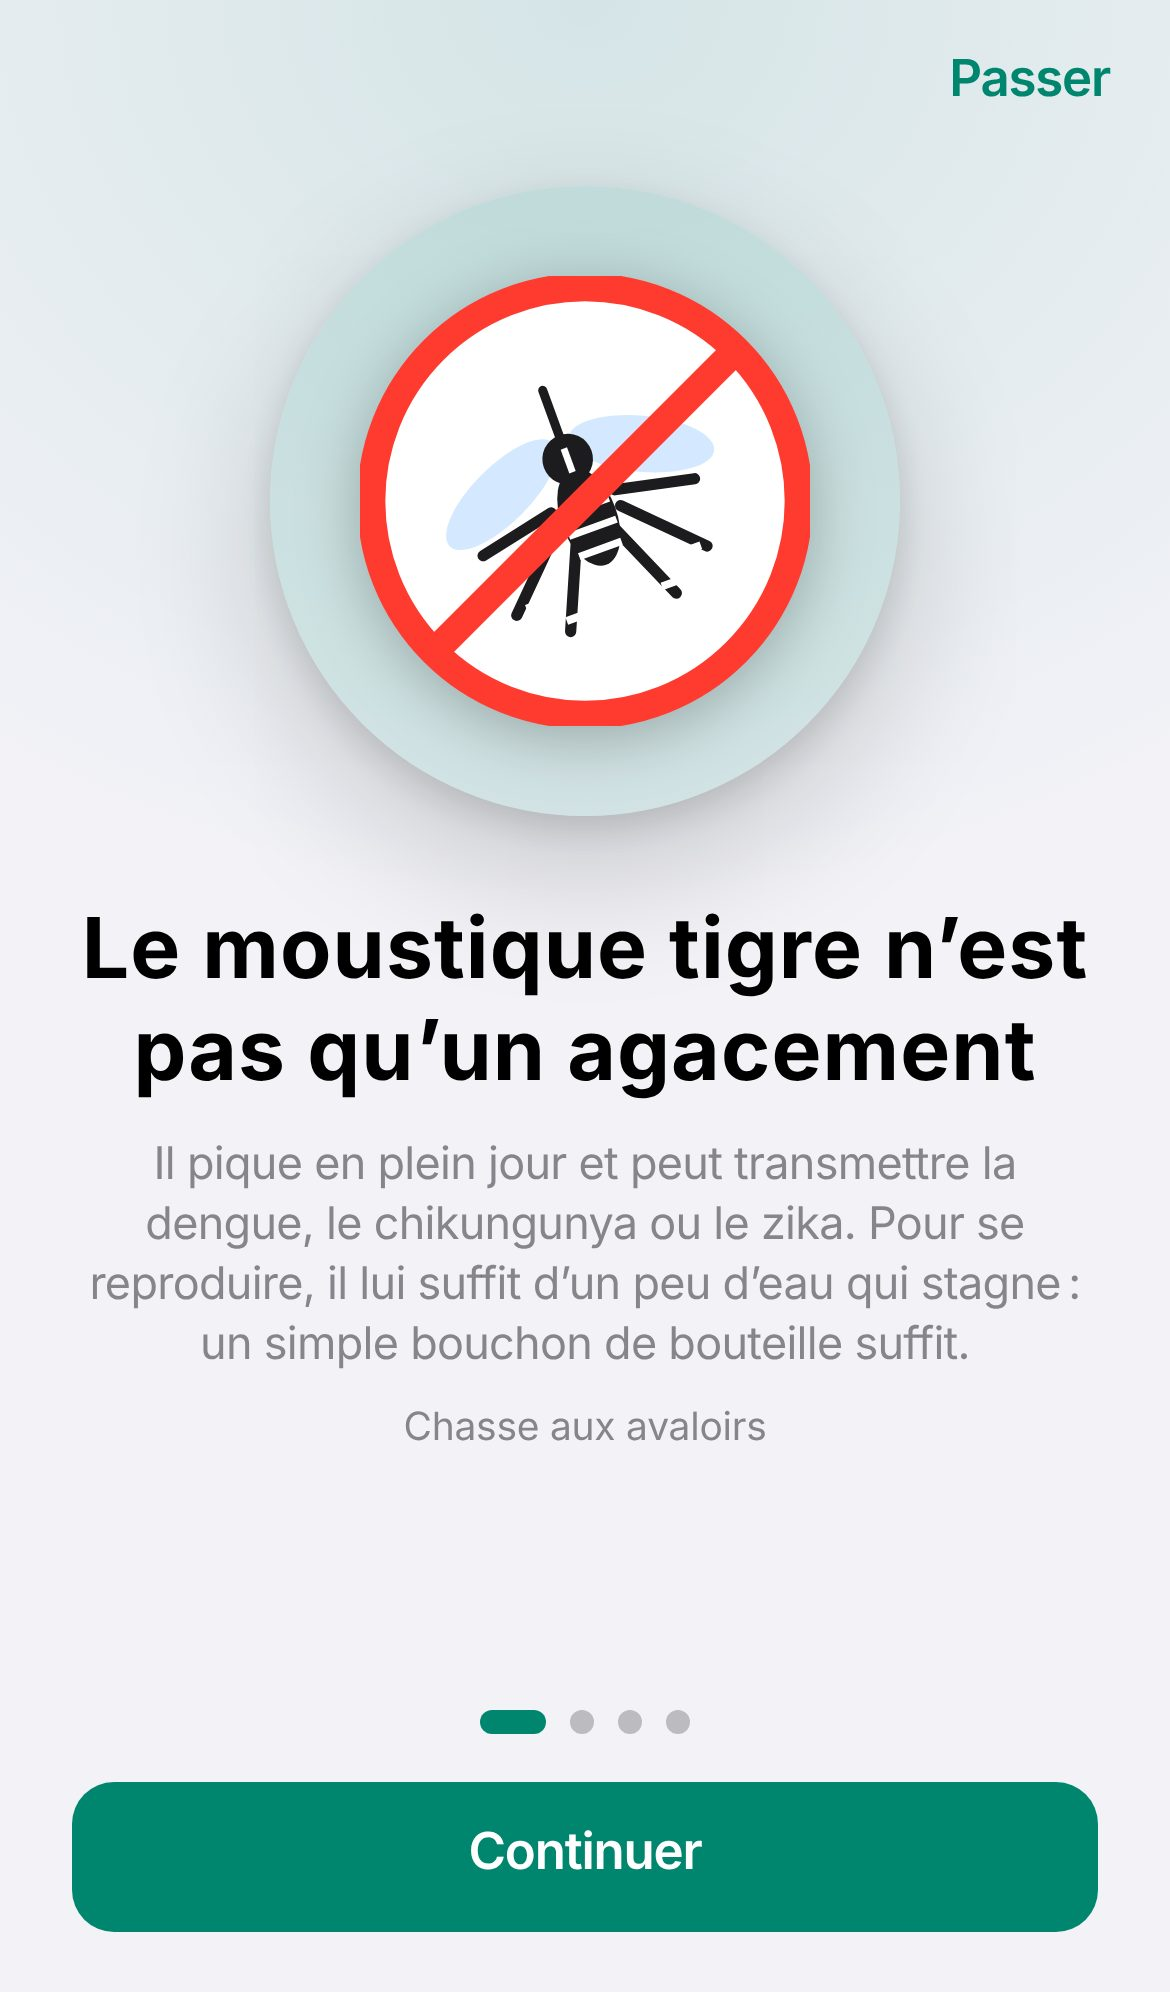
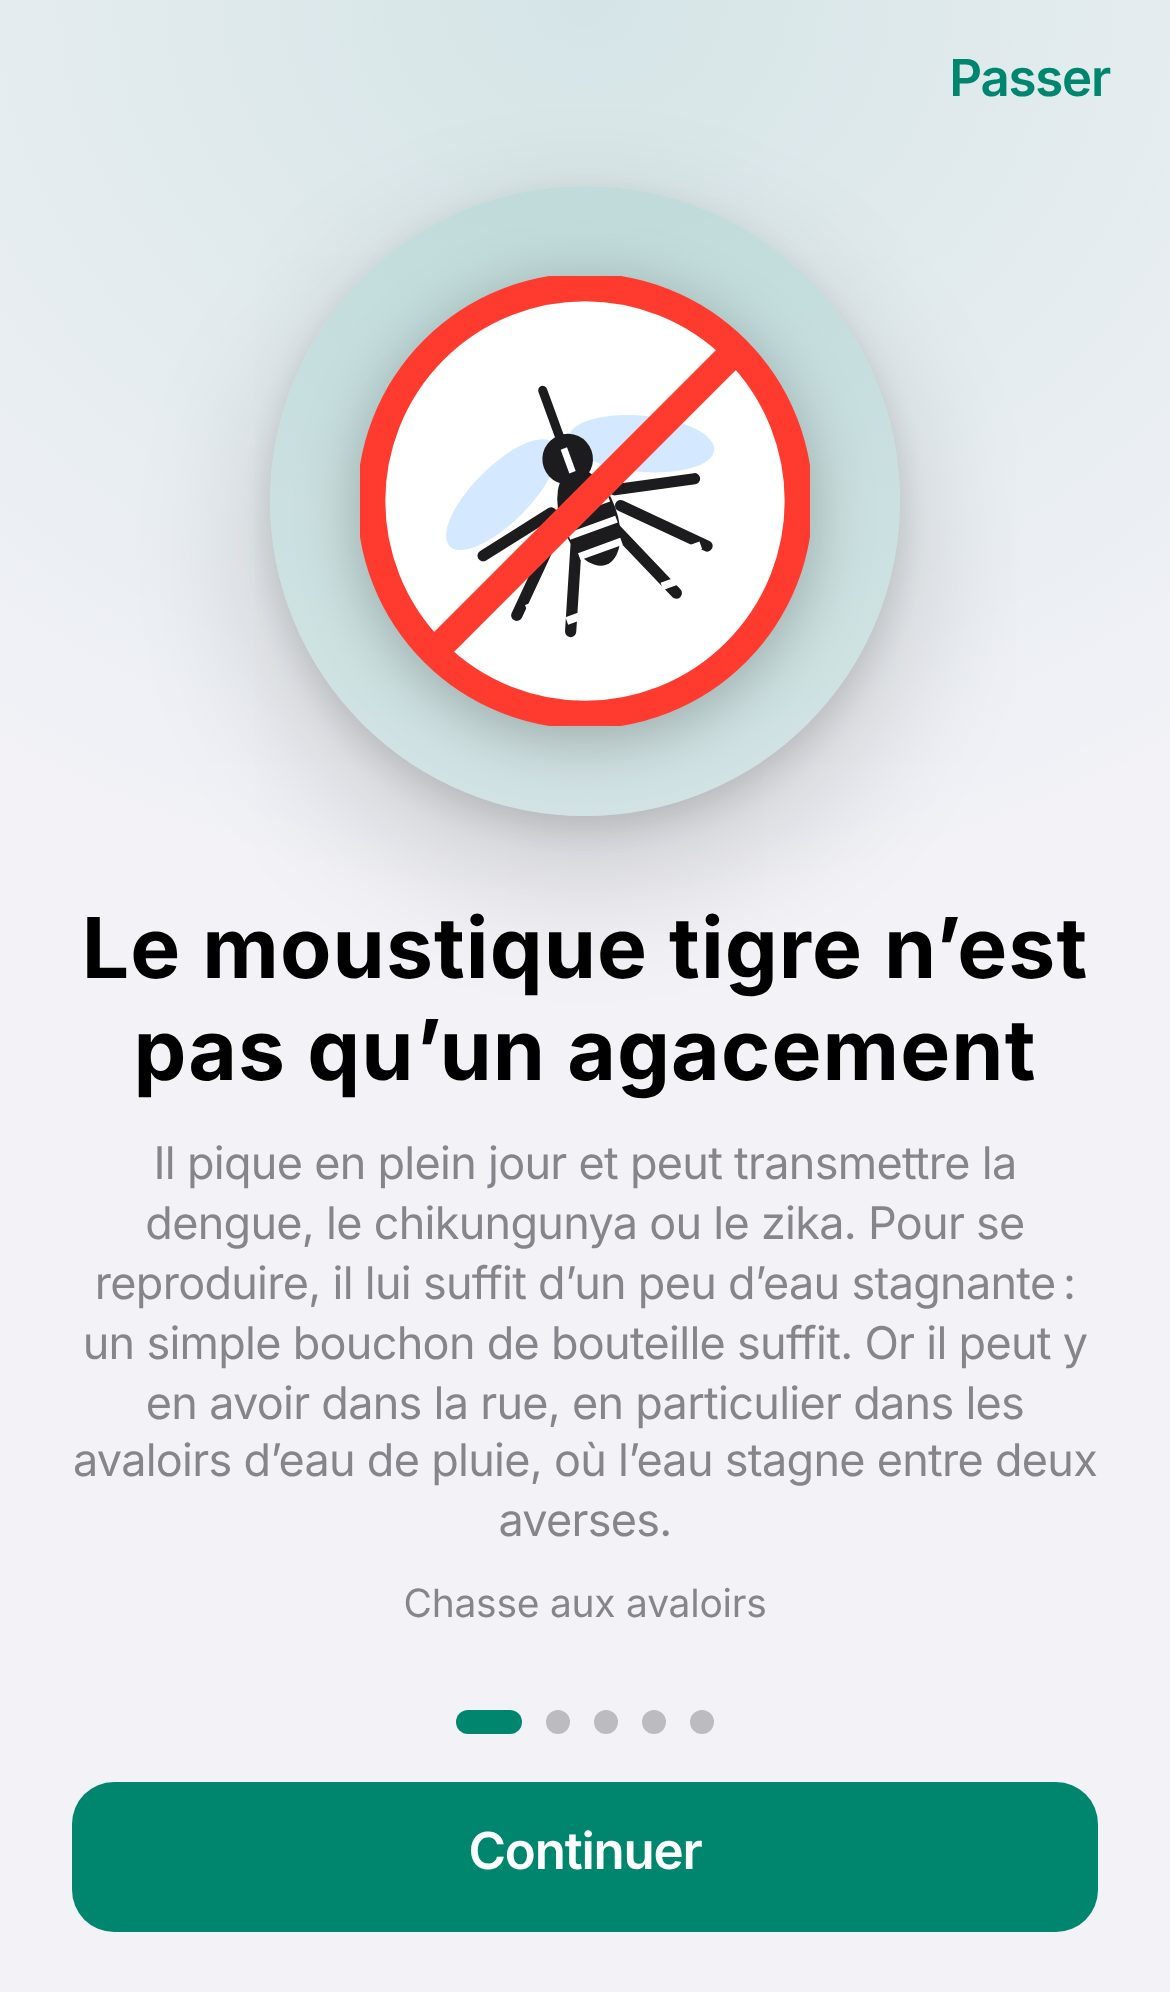
Accueil : eau stagnante dans les avaloirs, problématique de la cartographie, page « Votre mission »
Claude-Session: https://claude.ai/code/session_01XJv6nhnWAXTRzL2B87KkeQ

Changed region(s): [[0.0615, 0.6225, 0.9231, 0.8092], [0.3692, 0.8404, 0.6154, 0.8715], [0.5538, 0.7781, 0.6462, 0.8092]]

diff --git a/src/i18n/fr.ts b/src/i18n/fr.ts
@@ -25,16 +25,15 @@ const fr: Dict = {
     page: 'Page {n}',
     p1Title: 'Le moustique tigre n’est pas qu’un agacement',
     p1Text:
-      'Il pique en plein jour et peut transmettre la dengue, le chikungunya ou le zika. Pour se reproduire, il lui suffit d’un peu d’eau qui stagne : un simple bouchon de bouteille suffit.',
-    p2Title: 'Un relevé en 30 secondes',
-    step1Title: 'Photographiez l’avaloir',
-    step1Text: 'Une photo nette, vue de dessus.',
-    step2Title: 'Placez-vous au-dessus',
-    step2Text: 'Votre téléphone mesure sa position précise.',
-    step3Title: 'Indiquez son type',
-    step3Text: 'Grille, bouche dans la bordure… on vous guide.',
-    step4Title: 'C’est publié !',
-    step4Text: 'Sur OpenStreetMap et Panoramax, librement réutilisables par tous.',
+      'Il pique en plein jour et peut transmettre la dengue, le chikungunya ou le zika. Pour se reproduire, il lui suffit d’un peu d’eau stagnante : un simple bouchon de bouteille suffit. Or il peut y en avoir dans la rue, en particulier dans les avaloirs d’eau de pluie, où l’eau stagne entre deux averses.',
+    p2Title: 'Votre mission',
+    step1Title: 'Repérez les avaloirs',
+    step1Text: 'Dans votre rue : sur la chaussée, le long des trottoirs.',
+    step2Title: 'Cartographiez-les',
+    step2Text: 'Placez-vous au-dessus : le téléphone mesure sa position précise et vous indiquez son type.',
+    step3Title: 'Photographiez-les',
+    step3Text: 'Une photo nette, vue de dessus.',
+    missionDone: 'Une trentaine de secondes par avaloir, et c’est fait !',
     p3Short: 'Chaque avaloir rapporte des points et des badges : montez de niveau en jouant !',
     p3Title: 'Gagnez des points et des badges',
     p3Text:
@@ -56,7 +55,7 @@ const fr: Dict = {
 
   explain: {
     drainTitle: 'Un avaloir, c’est quoi ?',
-    drainText: 'C’est la grille, ou l’ouverture dans la bordure, qui avale l’eau de pluie de la rue pour l’envoyer dans les canalisations. Il y en a des centaines dans une commune, et vous passez devant sans les voir.',
+    drainText: 'C’est la grille, ou l’ouverture dans la bordure, qui avale l’eau de pluie de la rue. Il y en a des centaines dans une commune, mais aujourd’hui ils ne sont pas cartographiés : on ne sait pas où aller pour les traiter contre le moustique tigre.',
     waterTitle: 'Quand l’eau stagne, les larves prospèrent',
     waterText: 'Sous la grille, le fond d’un avaloir garde souvent de l’eau pendant des semaines : c’est une pouponnière idéale pour le moustique tigre. La mairie peut traiter chaque avaloir avec un larvicide, mais elle doit d’abord savoir où ils sont tous.',
     mission: 'Votre mission : photographier les avaloirs de votre rue, un par un.',

diff --git a/src/i18n/en.ts b/src/i18n/en.ts
@@ -25,16 +25,15 @@ const en: Dict = {
     page: 'Page {n}',
     p1Title: 'The tiger mosquito is more than a nuisance',
     p1Text:
-      'It bites in broad daylight and can spread dengue, chikungunya or Zika. To breed, it only needs a little standing water: a bottle cap is enough.',
-    p2Title: 'A survey in 30 seconds',
-    step1Title: 'Take a photo of the drain',
-    step1Text: 'A sharp photo, seen from above.',
-    step2Title: 'Stand right over it',
-    step2Text: 'Your phone measures its exact position.',
-    step3Title: 'Tell us its type',
-    step3Text: 'Grate, kerb opening… we guide you.',
-    step4Title: 'It’s published!',
-    step4Text: 'On OpenStreetMap and Panoramax, free for everyone to reuse.',
+      'It bites in broad daylight and can spread dengue, chikungunya or Zika. To breed, it only needs a little standing water: a bottle cap is enough. And there can be some in the street, especially in rainwater drains, where water stays between showers.',
+    p2Title: 'Your mission',
+    step1Title: 'Spot the drains',
+    step1Text: 'On your street: on the road, along the pavements.',
+    step2Title: 'Map them',
+    step2Text: 'Stand right over it: your phone measures its exact position and you tell us its type.',
+    step3Title: 'Photograph them',
+    step3Text: 'A sharp photo, seen from above.',
+    missionDone: 'About thirty seconds per drain, and you’re done!',
     p3Short: 'Every drain earns points and badges: level up as you play!',
     p3Title: 'Earn points and badges',
     p3Text:
@@ -56,7 +55,7 @@ const en: Dict = {
 
   explain: {
     drainTitle: 'What is a street drain?',
-    drainText: 'It is the grate, or the opening in the kerb, that swallows rainwater from the street and sends it into the pipes. A town has hundreds of them, and you walk past without noticing.',
+    drainText: 'It is the grate, or the opening in the kerb, that swallows the street’s rainwater. A town has hundreds of them, but today they are not mapped: nobody knows where to go to treat them against the tiger mosquito.',
     waterTitle: 'When water stagnates, larvae thrive',
     waterText: 'Under the grate, the bottom of a drain often keeps water for weeks: an ideal nursery for tiger mosquitoes. The town hall can treat each drain with a larvicide, but first it has to know where they all are.',
     mission: 'Your mission: photograph the storm drains on your street, one by one.',

diff --git a/src/screens/Onboarding.tsx b/src/screens/Onboarding.tsx
@@ -110,17 +110,15 @@ export function Onboarding({ onDone }: { onDone: () => void }) {
           </div>
           <h1 className="title1 center">{t('explain.drainTitle')}</h1>
           <p className="subhead secondary center">{t('explain.drainText')}</p>
-          <p className="subhead center mission">{t('explain.mission')}</p>
         </section>
 
         <section className="onboarding-page">
           <h1 className="title1 center" style={{ marginTop: 24 }}>{t('onboarding.p2Title')}</h1>
           <div className="how-steps">
             {[
-              { icon: 'camera' as const, color: 'var(--orange)', key: 'step1' },
-              { icon: 'location' as const, color: 'var(--blue)', key: 'step2' },
-              { icon: 'grate' as const, color: 'var(--accent)', key: 'step3' },
-              { icon: 'cloudUp' as const, color: 'var(--indigo)', key: 'step4' },
+              { icon: 'crosshair' as const, color: 'var(--blue)', key: 'step1' },
+              { icon: 'map' as const, color: 'var(--accent)', key: 'step2' },
+              { icon: 'camera' as const, color: 'var(--orange)', key: 'step3' },
             ].map((s, i) => (
               <div key={s.key} className="how-step slide-in" style={{ animationDelay: `${i * 0.08}s` }}>
                 <span className="icon-tile" style={{ background: s.color, width: 44, height: 44, borderRadius: 12 }}>
@@ -133,7 +131,8 @@ export function Onboarding({ onDone }: { onDone: () => void }) {
               </div>
             ))}
           </div>
-          <p className="footnote secondary center" style={{ marginTop: 14 }}>🏅 {t('onboarding.p3Short')}</p>
+          <p className="subhead center mission">{t('onboarding.missionDone')}</p>
+          <p className="footnote secondary center" style={{ marginTop: 6 }}>🏅 {t('onboarding.p3Short')}</p>
         </section>
 
         {HAS_PLEDGE && (

diff --git a/tests/unit/i18n.test.ts b/tests/unit/i18n.test.ts
@@ -43,7 +43,7 @@ describe('Traductions', () => {
       ...['pending', 'running', 'done', 'error', 'skipped', 'published'].map((k) => `status.${k}`),
       ...['osm_rate_limited', 'osm_auth', 'panoramax_auth', 'network', 'not_mappable', 'no_photo', 'offline', 'generic'].map((k) => `errors.${k}`),
       ...['ok', 'blurry', 'dark'].map((k) => `photo.verdict.${k}`),
-      ...['step1', 'step2', 'step3', 'step4'].flatMap((k) => [`onboarding.${k}Title`, `onboarding.${k}Text`]),
+      ...['step1', 'step2', 'step3'].flatMap((k) => [`onboarding.${k}Title`, `onboarding.${k}Text`]),
       ...['map', 'records', 'profile', 'settings'].map((k) => `tabs.${k}`),
     ];
     expect(dynamic.filter((k) => !frKeys.has(k))).toEqual([]);

diff --git a/README.md b/README.md
@@ -35,7 +35,7 @@ Pile : React 19 + TypeScript, Vite, Leaflet, service worker maison (sans dépend
 
 ## 2. Parcours utilisateur
 
-**Introduction (accueil, 4 pages seulement).** Beaucoup de gens ne savent pas ce qu'est un avaloir : l'accueil l'explique d'abord, avec des schémas. 1) *Le moustique tigre n'est pas qu'un agacement* : il pique en plein jour, peut transmettre dengue, chikungunya et zika, et se reproduit dans un bouchon de bouteille d'eau stagnante. 2) *Un avaloir, c'est quoi ?* : coupe d'un avaloir dont le fond reste en eau, et la mission des participants. 3) *Un relevé en 30 secondes* : les quatre étapes, avec une ligne sur les points et badges. 4) Les autorisations. Pour rester simple, les détails facultatifs (forme, matière, obstrué), le détail des points et les exports/mode test sont repliés par défaut. Cette introduction se relit à tout moment dans Réglages › « Comprendre le projet ».
+**Introduction (accueil, 5 pages).** Beaucoup de gens ne savent pas ce qu'est un avaloir ni pourquoi les relever : l'accueil l'explique d'abord, avec des schémas. 1) *Le moustique tigre n'est pas qu'un agacement* : il pique en plein jour, peut transmettre dengue, chikungunya et zika, se reproduit dans un peu d'eau stagnante (un bouchon de bouteille suffit), y compris dans la rue, en particulier dans les avaloirs d'eau de pluie. 2) *Un avaloir, c'est quoi ?* : coupe d'un avaloir dont le fond reste en eau, et la problématique : ils ne sont pas cartographiés, donc on ne sait pas où aller pour les traiter. 3) *Votre mission* : repérer, cartographier et photographier les avaloirs de sa rue, une trentaine de secondes chacun. 4) *Quelle est votre rue ?* : engagement sur une ou plusieurs rues. 5) Les autorisations. Pour rester simple, les détails facultatifs (forme, matière, obstrué), le détail des points et les exports/mode test sont repliés par défaut. Cette introduction se relit à tout moment dans Réglages › « Comprendre le projet ».
 
 1. **Photo** — « Photographiez l'avaloir » : cadre de visée, contrôle de netteté (« Photo nette » / « Photo un peu floue »).
 2. **Position** — « Placez-vous au-dessus de l'avaloir » : jauge de précision GPS en direct, bouton « Je suis au-dessus », mesure moyennée sur 6 s (« Ne bougez plus… »), puis vérification sur la photo aérienne avec un repère déplaçable.

diff --git a/docs/campagne-rues.md b/docs/campagne-rues.md
@@ -12,7 +12,7 @@ Objectif : inciter les habitants à relever les avaloirs d'une ou plusieurs rues
 
 ## Dans le tunnel du premier lancement
 
-Accueil en 5 pages : 1) le moustique tigre, 2) « Un avaloir, c'est quoi ? » avec **LA MISSION** en évidence (« Votre mission : photographier les avaloirs de votre rue, un par un. »), 3) les étapes d'un relevé, 4) **« Quelle est votre rue ? »** (engagement), 5) les autorisations (localisation, appareil photo).
+Accueil en 5 pages : 1) le moustique tigre (il se reproduit dans un peu d'eau stagnante, y compris dans la rue, en particulier dans les avaloirs d'eau de pluie), 2) « Un avaloir, c'est quoi ? » (la problématique : ils ne sont pas cartographiés, donc on ne sait pas où aller pour les traiter), 3) **« Votre mission »** : repérer les avaloirs, les cartographier, les photographier, « une trentaine de secondes par avaloir, et c'est fait ! », 4) **« Quelle est votre rue ? »** (engagement), 5) les autorisations (localisation, appareil photo).
 
 - L'engagement arrive donc après les explications sur les objectifs et **avant** les autorisations. On cherche sa rue par son nom ; **+5 points par rue** (jusqu'à 3 rues) et le badge **« Voisin engagé »**. Facultatif : tant qu'aucune rue n'est choisie, le bouton de la page indique « Plus tard ».
 - « Passer » dans l'accueil mène directement à cette page d'engagement (puis aux autorisations).
